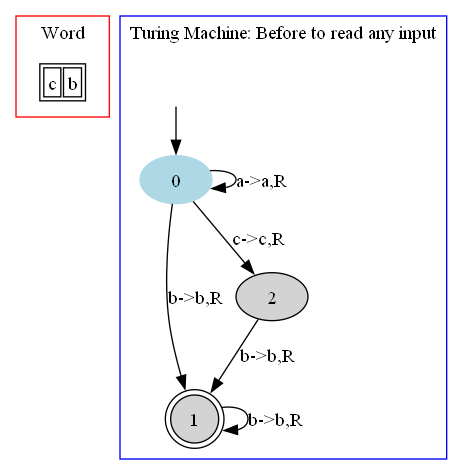
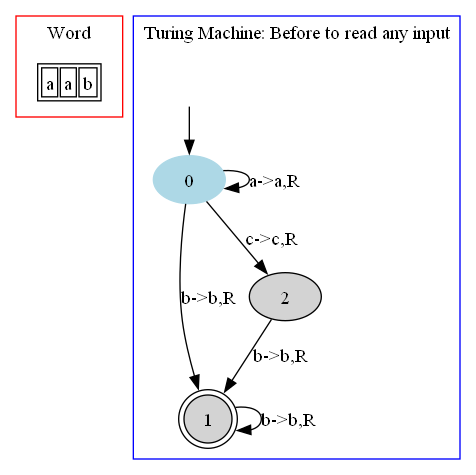
Testing others samples

Changed region(s): [[0.0302, 0.0295, 0.9676, 0.9726], [0.3326, 0.2358, 0.6955, 0.9432]]

diff --git a/TM/main.cpp b/TM/main.cpp
@@ -20,11 +20,11 @@ int main(int argc, char *argv[])
     //tm.is_this_input_string_in_the_language_with_message("cbbbb"); //This must be accepted
     //tm.is_this_input_string_in_the_language_with_message("ccccca"); //This must NOT be accepted
 
-    //tm.is_this_input_string_in_the_language_with_message("aab"); //This must be accepted
-    //tm.is_this_input_string_in_the_language_with_message("aaac"); //This must NOT be accepted
-    //tm.is_this_input_string_in_the_language_with_message("c"); //This must NOT be accepted
-    tm.is_this_input_string_in_the_language_with_message("cb", true); //This must be accepted
-    //tm.is_this_input_string_in_the_language_with_message("cbbbb"); //This must be accepted
+    tm.is_this_input_string_in_the_language_with_message("aab", true); //This must be accepted
+    //tm.is_this_input_string_in_the_language_with_message("aaac", true); //This must NOT be accepted
+    //tm.is_this_input_string_in_the_language_with_message("c", true); //This must NOT be accepted
+    //tm.is_this_input_string_in_the_language_with_message("cb", true); //This must be accepted
+    //tm.is_this_input_string_in_the_language_with_message("cbbbb", true); //This must be accepted
     //tm.is_this_input_string_in_the_language_with_message("ccccca", true); //This must NOT be accepted
 
     //return a.exec();
